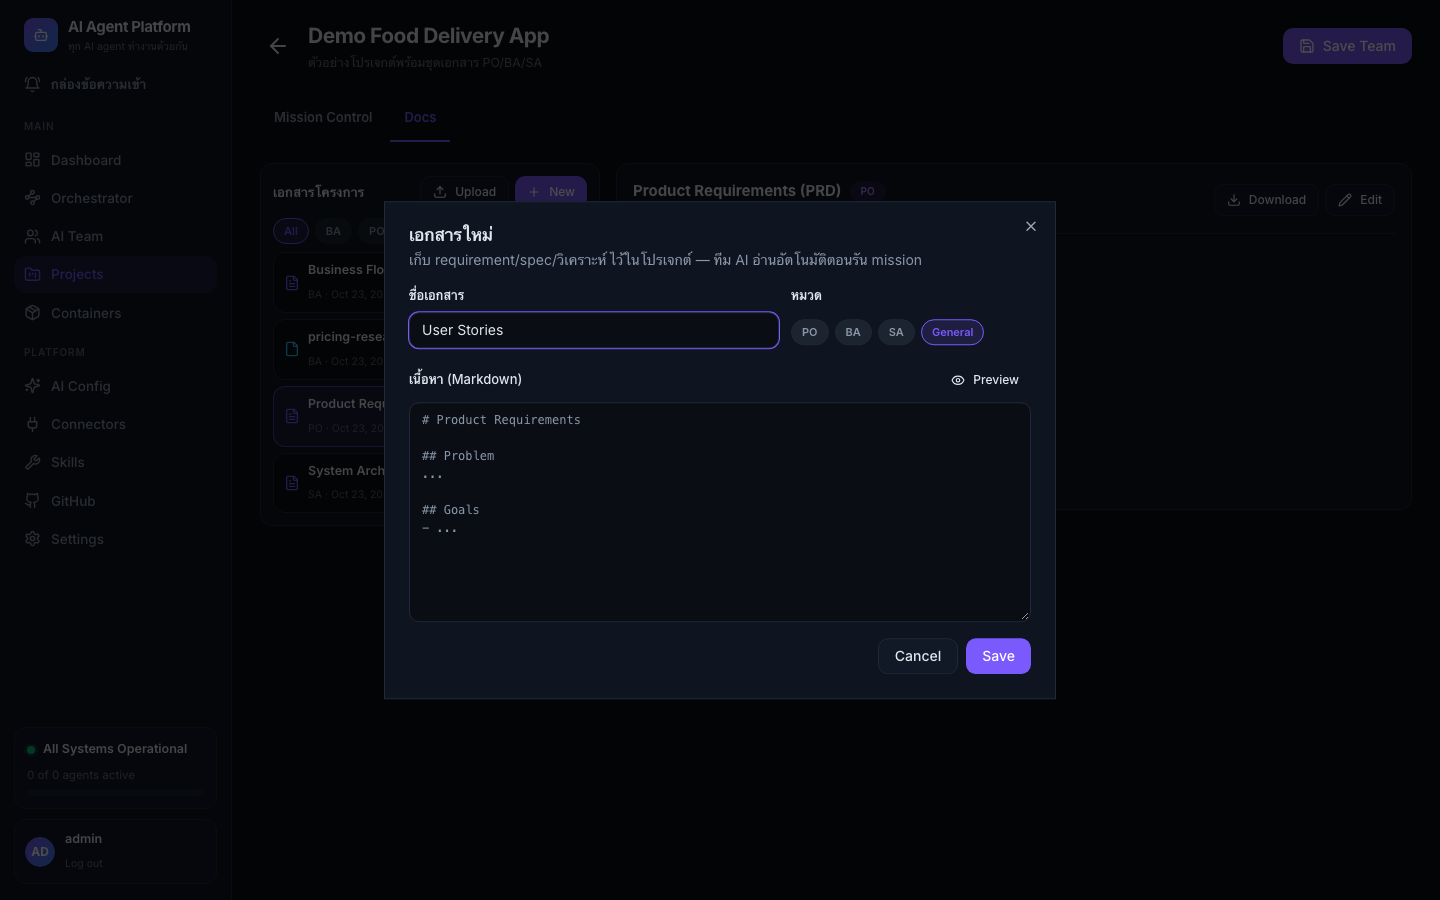
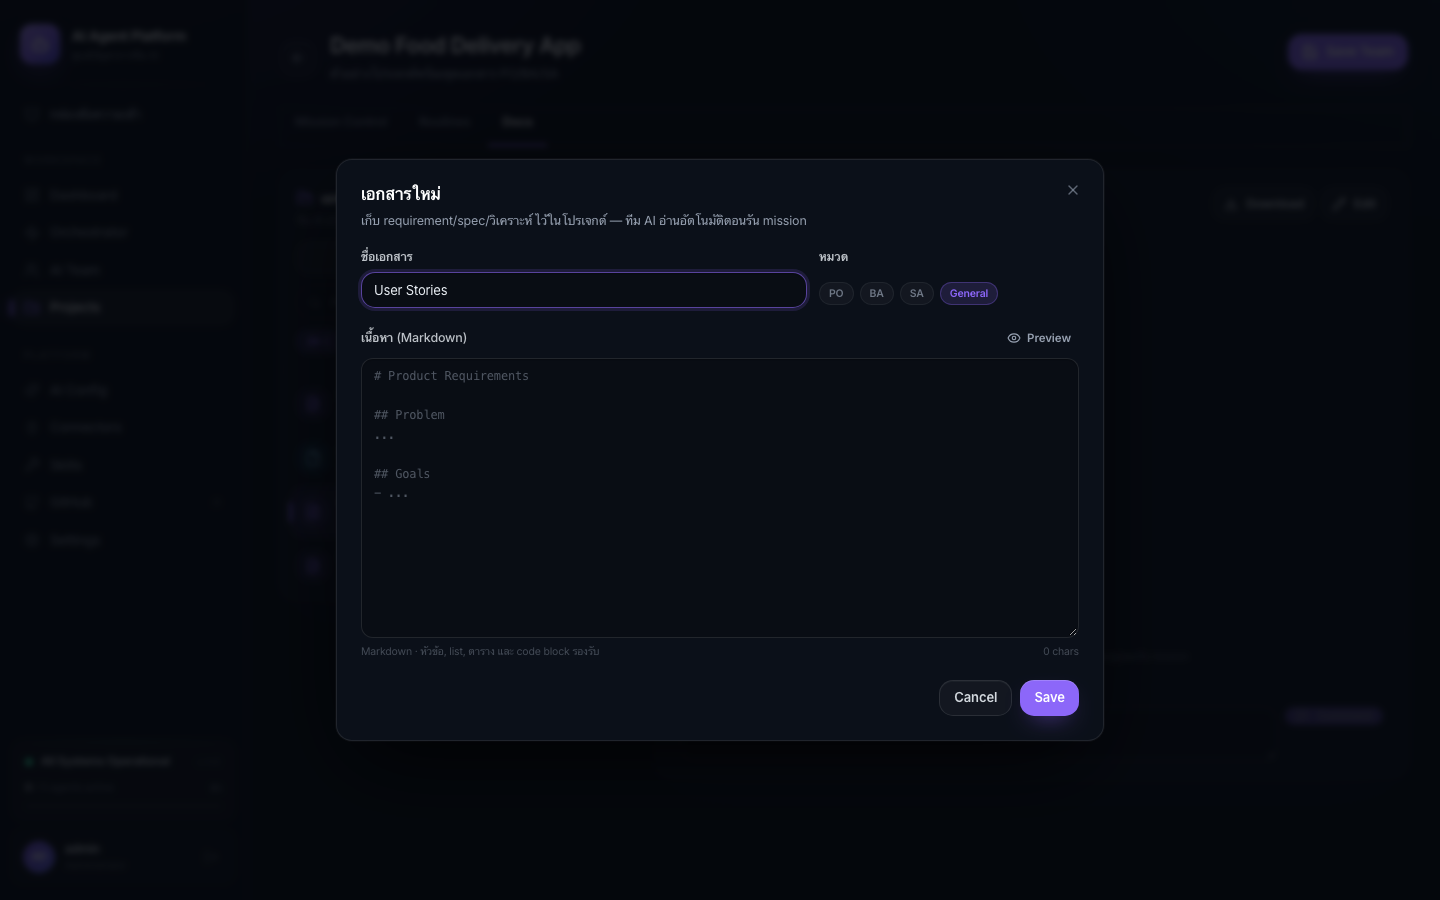
README: document budgets, routines, review gate, harnesses, and refresh screenshots
Adds the org-feature tour (goal + budget, routines, org chart, per-persona harness, docs with anchored comments, skill studio, token pricing), updates the mission/architecture diagrams for the budget guard, review gate, scheduler and watchdog, and documents AAP_BIND / AAP_WATCHDOG_STALL_SECS plus the private-by-default security posture. Captures every screenshot against the current dark UI, and renames the leftover "Agent Containers" dashboard copy to "AI Agents".

diff --git a/web/app/page.jsx b/web/app/page.jsx
@@ -172,7 +172,7 @@ export default function Dashboard() {
             testId="stat-containers"
             icon={Package}
             tone="bg-primary/[0.12] text-primary ring-primary/20"
-            label="Agent Containers"
+            label="AI Agents"
             value={managedCount}
             meta={<>
               <span className="font-semibold text-emerald-400">{running} running</span>
@@ -235,7 +235,7 @@ export default function Dashboard() {
           <Table className="min-w-[600px]">
             <TableHeader>
               <TableRow>
-                <TableHead className="w-1/4">Container</TableHead>
+                <TableHead className="w-1/4">Agent</TableHead>
                 <TableHead>Type</TableHead>
                 <TableHead>Model</TableHead>
                 <TableHead>Status</TableHead>
@@ -275,7 +275,7 @@ export default function Dashboard() {
                         <span className="flex h-9 w-9 items-center justify-center rounded-full border border-white/[0.07] bg-white/[0.03]">
                           <Search className="h-4 w-4 text-muted-foreground/50" />
                         </span>
-                        No containers match your filter.
+                        No agents match your filter.
                       </span>
                     )}
                   </TableCell>

diff --git a/web/app/containers/[id]/page.jsx b/web/app/containers/[id]/page.jsx
@@ -370,7 +370,7 @@ export default function ContainerDetail() {
             </div>
             {[
               ['Model', agentModel || '—', ''],
-              ['Container', status === 'running' ? 'Ready' : status, status === 'running' ? 'text-emerald-400' : ''],
+              ['Session', status === 'running' ? 'Ready' : status, status === 'running' ? 'text-emerald-400' : ''],
             ].map(([k, v, color]) => (
               <div key={k} className="flex items-center justify-between border-b border-dashed border-border py-1.5 text-[12.5px] last:border-0">
                 <span className="text-muted-foreground/70">{k}</span>

diff --git a/README.md b/README.md
@@ -6,7 +6,7 @@ Give the team one task in plain language. The Product Owner opens the brief, the
 
 [![Mission Control](docs/screenshots/mission-control.png)](docs/screenshots/mission-control.png)
 
-*A live mission on the React Flow canvas — each agent is a node, the timeline streams what they're doing, and meetings appear as floating cards wired to everyone involved.*
+*Mission Control — one project, one team, one working tree. The composer takes the task, budget and goal; every step below streams what each agent is really doing.*
 
 ---
 
@@ -14,23 +14,43 @@ Give the team one task in plain language. The Product Owner opens the brief, the
 
 | | |
 |---|---|
-| [![Dashboard](docs/screenshots/dashboard.png)](docs/screenshots/dashboard.png) | [![Agent desktop](docs/screenshots/container-detail.png)](docs/screenshots/container-detail.png) |
+| [![Dashboard](docs/screenshots/dashboard.png)](docs/screenshots/dashboard.png) | [![Agent terminal](docs/screenshots/container-detail.png)](docs/screenshots/container-detail.png) |
 | **Dashboard** — every agent at a glance: state, role, live status. | **Agent terminal** — the agent's live tmux session inside the page: watch every command stream by, or `tmux attach` yourself. |
 | [![AI Team](docs/screenshots/team.png)](docs/screenshots/team.png) | [![Orchestrator board](docs/screenshots/board.png)](docs/screenshots/board.png) |
-| **AI Team** — 9 personas with role, model, skills and their own session. Edit personas in-place. | **Orchestrator board** — Kanban + live activity feed of what every agent is doing right now. |
+| **AI Team** — 9 personas with role, model, harness and their own session. Edit personas in place. | **Orchestrator board** — every project's latest run, who is working, and the door into Mission Control. |
+
+## 🧭 Run a team like an org
+
+| | |
+|---|---|
+| [![Goal and budget](docs/screenshots/project-goal-budget.png)](docs/screenshots/project-goal-budget.png) | [![Routines](docs/screenshots/project-routines.png)](docs/screenshots/project-routines.png) |
+| **Goal + budget per mission** — a product goal that survives into every prompt, plus a USD budget and alert threshold per run. | **Scheduled routines** — 5-field cron, local time, `loop` runs, run-now and pause. A missed window is never replayed after a restart. |
+| [![Org chart](docs/screenshots/team-org.png)](docs/screenshots/team-org.png) | [![Persona harness](docs/screenshots/persona-harness.png)](docs/screenshots/persona-harness.png) |
+| **Org chart** — assign each persona a manager; the chain of command is injected into prompts and drawn here. | **Per-persona model & harness** — override the model per provider, or let a persona think through Claude Code / Codex CLI / a custom command. |
+| [![Doc comments](docs/screenshots/project-doc-comments.png)](docs/screenshots/project-doc-comments.png) | [![Project docs](docs/screenshots/project-docs.png)](docs/screenshots/project-docs.png) |
+| **Anchored review comments** — quote a line, leave a note, resolve or reopen it. | **Docs workspace** — markdown editor, file uploads and preview per project, shared with the team. |
+| [![Skill test bench](docs/screenshots/skill-test-bench.png)](docs/screenshots/skill-test-bench.png) | [![Token pricing](docs/screenshots/ai-config-pricing.png)](docs/screenshots/ai-config-pricing.png) |
+| **Skill studio** — saved test inputs, real provider runs, and 20-run history per skill, plus version restore. | **Token pricing** — per-model USD per 1M tokens feeds the run ledger; an unpriced model fails closed when a budget is set. |
 
 ## ✨ Highlights
 
 - 🧑🚀 **9 role-playing agents, one real workflow** — PO → BA → SA → UX/UI → Dev → QA, each working in their *own* tmux session on your machine, each writing deliverables to a shared git working tree
 - 🖥 **Live terminals** — every agent is a real shell in a tmux session (`agent-<role>`); you watch them work in the web terminal (xterm.js ⇄ WebSocket ⇄ PTY) or `tmux attach` directly — several viewers at once, nothing fights
-- 🧠 **Team meetings & human-in-the-loop** — a stuck agent opens an `ASK` meeting and *other agents answer*; if it truly needs you, the run pauses (`waiting_human`) and your inbox pings — answer in the mission chat and the team continues
+- 💸 **Budgets that actually bite** — every step records tokens and cost against the model's price; crossing the limit pauses the run as `waiting_human` and **only an explicit budget raise resumes it** — a chat reply cannot talk its way past the guardrail. Unpriced models fail closed
+- 🔍 **Review gate before push** — the PR stage stages the exact diff first, then waits for you: approve to push, or reject once and the Dev revises. The reviewed diff is the pushed diff, and retries re-enter the same gate
+- ⏰ **Routines** — 5-field cron in local time with DST-safe matching, busy-project skip, run-now and loop mode; schedules survive restarts without replaying missed windows
+- 🧠 **Team meetings & human-in-the-loop** — a stuck agent opens an `ASK` meeting and *other agents answer*; if it truly needs you, the run pauses and your inbox pings — answer in the mission chat and the team continues
 - 🐙 **Real pull requests** — the Dev creates a branch, pushes and opens a PR with `gh` using YOUR GitHub login. No PR theater: if prerequisites are missing the step is *honestly skipped with the real reason*
 - 🎬 **Acceptance demo** — QA and Dev present their evidence in a **demo session** while the PO checks acceptance criteria one by one → `VERDICT: PASS|FAIL`
 - 🔁 **Loop mode** — after each round the PO evaluates the goal, writes the next task itself and re-runs the team (up to 8 rounds); a FAIL verdict forces a fix task
+- 🏢 **Org-lite** — each persona reports to a manager; goal + ancestry travel into prompts, and the AI Team page draws the org chart
+- 🧰 **Bring your own harness** — native provider loop, Claude Code CLI, Codex CLI or a custom command template per persona. External harnesses run in the repo and are capped at 30 minutes; hitting the cap kills the process
+- 📚 **Docs & skill studio** — per-project markdown docs/pdfs with anchored comments; skills have a real test bench (saved inputs, provider runs, history) and version restore
 - 🔌 **Connectors** — GitHub (browser device-flow or PAT) and Figma (PAT) — **one machine, one identity**: log in once and the whole team pushes with your account
 - 🛡 **Honest tools** — before every step the orchestrator probes what's really installed on your machine and puts a *tools manifest* in the prompt: what exists (with versions) and what's forbidden to guess. Kills tool hallucination
-- 🌐 **Any AI provider** — Z.ai GLM, Anthropic, OpenAI, OpenRouter, Groq, DeepSeek, Ollama (local) or a custom endpoint; switchable per persona from the AI Config page, keys stored server-side
-- 🔐 **Login gate** — one `ADMIN_PASSWORD` unlocks everything (API, terminals)
+- 🌐 **Any AI provider** — Z.ai GLM, Anthropic, OpenAI, Gemini, OpenRouter, Groq, DeepSeek, Ollama (local) or a custom endpoint; switchable per persona, keys stored server-side
+- 🩺 **Watchdog** — a run that stops producing heartbeats for 45 minutes is flagged in the UI (never silently killed), and the flag clears itself when work resumes
+- 🔐 **Private by default** — one `ADMIN_PASSWORD` locks the API, terminals and mutations; without it the server binds loopback only. Stores are written atomically as `0600`
 - 🪶 **Zero Docker** — agents are shell sessions, not containers: no images to build, no VM tax, idle agents cost nothing; what's installed on your Mac is what the team can use
 
 ## 🎬 How a mission runs
@@ -47,7 +67,10 @@ flowchart TD
     UI --> DEV
     DEV --> QA["QA · Tara<br/>test strategy & E2E evidence"]
 
-    QA --> PR["🐙 Real Pull Request<br/>branch → push → gh pr create"]
+    QA --> REVIEW["🔍 Pre-push review gate<br/>you approve the exact staged diff"]
+    REVIEW -->|"approve"| PR["🐙 Real Pull Request<br/>branch → push → gh pr create"]
+    REVIEW -.->|"reject once"| DEV
+    REVIEW -.->|"reject again"| SKIP["🚫 PR skipped<br/>with the real reason"]
     PR --> DEMO["🎬 Demo session<br/>QA evidence → Dev PR → PO checklist"]
     DEMO -->|"VERDICT: PASS ✅"| DONE["🏁 Mission complete"]
     DEMO -->|"VERDICT: FAIL ❌"| LOOP["🔁 Loop mode — PO writes the fix task"]
@@ -56,6 +79,9 @@ flowchart TD
     DEV -. "stuck? ## ASK" .-> MEET["💬 Team Meeting<br/>agents answer each other · deliverable → rev 2"]
     MEET -. "really needs a human" .-> HUMAN["⏸ waiting_human<br/>you reply in the mission chat"]
     HUMAN -.-> DEV
+
+    DEV -. "budget crossed" .-> BUDGET["💸 Budget guard<br/>step cost > limit"]
+    BUDGET -.-> HUMAN
 ```
 
 Everything streams live into Mission Control: agent nodes light up blue (working) / amber (meeting) / green (delivered), the timeline shows each step with its real output, and every run is persisted (`data/runs.json`) so history survives restarts.
@@ -66,7 +92,7 @@ Everything streams live into Mission Control: agent nodes light up blue (working
 flowchart TB
     U["👤 You"] --> WEB["🖥 Web Dashboard · :3000<br/>Next.js 14 · shadcn/ui · React Flow · xterm.js"]
     WEB -->|"REST + WebSocket · x-session-token"| ORCH["⚙ Orchestrator · :8000<br/>Rust · Axum — one host binary (make run)"]
-    ORCH -->|"Anthropic-compatible API"| LLM["🤖 AI provider<br/>Z.ai GLM / Anthropic / OpenAI / OpenRouter / Groq / DeepSeek / Ollama"]
+    ORCH -->|"Anthropic-compatible API"| LLM["🤖 AI provider<br/>Z.ai GLM / Anthropic / OpenAI / Gemini / OpenRouter / Groq / DeepSeek / Ollama"]
 
     subgraph TEAM["🧩 Agent tmux sessions ×5–10 — one per persona, on YOUR machine"]
         direction LR
@@ -76,6 +102,8 @@ flowchart TB
         A4["…"]
     end
     ORCH -->|"tmux new-window + bash"| TEAM
+    ORCH -->|"cron tick · watchdog tick"| SCHED["⏰ Routines<br/>5-field cron, DST-safe"]
+    ORCH -.->|"no tmux? headless"| HEADLESS["headless fallback<br/>bash child + timeout"]
 
     subgraph INSIDE["Every agent = your real environment"]
         direction LR
@@ -85,13 +113,13 @@ flowchart TB
     end
     TEAM -.-> INSIDE
 
-    ORCH -.->|"runs & activity persisted"| DATA[("./data<br/>runs.json · paused.json · agents.json")]
+    ORCH -.->|"atomic 0600 writes"| DATA[("./data<br/>runs · projects · personas · config<br/>routines · docs · skills · agents")]
 ```
 
 | Component | Stack | What it does |
 |---|---|---|
-| **Web** ([web/](web/)) | Next.js 14 (App Router), Tailwind, shadcn/ui, React Flow, xterm.js | Dashboard, Mission Control, team & persona editor, Kanban board, settings, AI config, connectors |
-| **Orchestrator** ([orchestrator/](orchestrator/)) | Rust, Axum 0.8, tokio, portable-pty — a single host binary | Agent (tmux session) lifecycle, the Team Run engine (missions, meetings, loop mode, PR/demo stages), auth, connectors, tools manifest. Exec seam lives in [src/hostexec.rs](orchestrator/src/hostexec.rs) |
+| **Web** ([web/](web/)) | Next.js 14 (App Router), Tailwind, shadcn/ui, React Flow, xterm.js | Dashboard, Mission Control, team & persona editor, org chart, routines, docs workspace, skills studio, AI config, connectors |
+| **Orchestrator** ([orchestrator/](orchestrator/)) | Rust, Axum 0.8, tokio, portable-pty — a single host binary | Agent (tmux session) lifecycle, the Team Run engine (missions, meetings, budget guard, review gate, PR/demo stages), cron scheduler, watchdog, auth, connectors, tools manifest. Exec seam lives in [src/hostexec.rs](orchestrator/src/hostexec.rs) |
 
 **Design principles**
 
@@ -99,6 +127,7 @@ flowchart TB
 - *Repo-first* — the orchestrator clones the project repo (depth 1) into a **shared `./workspace` directory**, so the whole team works on one working tree
 - *Everything real* — deliverables, commits, PRs and test evidence are real artifacts; skipped stages say why
 - *tmux = the window* — every command an agent runs is visible in its session, live, whether you watch from the web UI or your own terminal
+- *Fail closed* — budgets stop spending instead of guessing, unpriced models block rather than record `$0`, and a hung harness is killed rather than left running in the background
 
 ## 👥 The AI team
 
@@ -114,7 +143,7 @@ flowchart TB
 | Backend Dev | **Earth** | Data, migrations, CI/CD, reliability |
 | QA Engineer | **Tara** | Test strategy, E2E (Playwright), quality gates |
 
-Personas are editable from the AI Team page — role prompt, model, skills.
+Personas are editable from the AI Team page — role prompt, model override, harness, manager, skills.
 
 ## 🚀 Quickstart
 
@@ -133,9 +162,9 @@ make run                   # orchestrator :8000 + web :3000, host processes
 |---|---|
 | Web dashboard | http://localhost:3000 |
 | API | http://localhost:8000 |
-| Any agent, live | `tmux attach -t agent-dev` |
+| Any agent, live | `tmux attach -t agent-dev-fe` |
 
-Start agents from the AI Team page (or the dashboard), open a project, type a task, press **สั่งงานทีม**, and watch Mission Control — or attach to any `agent-<role>` session and watch the same thing from your own terminal.
+Start agents from the AI Team page, open a project, set a goal/budget if you want guardrails, type a task, press **สั่งงานทีม**, and watch Mission Control — or attach to any `agent-<role>` session and watch the same thing from your own terminal.
 
 <details>
 <summary><b>Environment variables</b> (all optional at boot)</summary>
@@ -145,46 +174,55 @@ Start agents from the AI Team page (or the dashboard), open a project, type a ta
 | `AI_API_KEY` | *(empty)* | Provider API key — or set it in the **AI Config** page |
 | `AI_BASE_URL` | *(empty)* | Custom endpoint — empty = provider default |
 | `ADMIN_USER` | `admin` | Login username |
-| `ADMIN_PASSWORD` | *(empty)* | **Empty = auth off.** Set it to require login for the whole platform (API, terminals) |
-| `DATA_DIR` | `./data` | Where runs.json / paused.json / agents.json live |
+| `ADMIN_PASSWORD` | *(empty)* | **Empty = auth off (loopback only).** Set it to require login for the whole platform |
+| `AAP_BIND` | `127.0.0.1:8000` (auth off) / `0.0.0.0:8000` (auth on) | Explicit listen address; override to expose on the LAN |
+| `DATA_DIR` | `./data` | Runs, projects, personas, config, routines, docs, skills, agents |
 | `AAP_WORKSPACE` | `./workspace` | The team's shared working tree (cloned repos + deliverables) |
+| `AAP_WATCHDOG_STALL_SECS` | `2700` | Minutes-without-heartbeat threshold for the advisory run watchdog (min 60s) |
 
 </details>
 
 ## 🔐 Security notes
 
-- The login gate covers *all* agent endpoints — exec, AI commands, lifecycle, terminals
-- Provider keys and GitHub PATs live server-side in the orchestrator, never in the repo; the UI only shows masked keys; tokens injected into clone URLs are kept out of logs
-- Secrets passed to an agent command ride a 0600 script file — never a command line (`ps` shows nothing)
-- **One machine, one identity is a stated trade-off**: connecting GitHub logs the team in as you; disconnecting (or `gh auth logout`) logs the *machine* out. Agents work with your user's full permissions — this is a deliberate single-user design
+- **Private by default** — with `ADMIN_PASSWORD` unset the API listens on loopback only; every exec/terminal/agent endpoint requires a session when auth is on, and persona/task/config/skill mutations require auth too
+- **Secrets stay server-side** — provider keys and GitHub PATs live in the orchestrator; the UI only shows masked keys; tokens in clone URLs are redacted from logs; secrets for an agent command ride a `0600` script file, never a command line (`ps` shows nothing)
+- **Private at rest** — `data/` is `0700` and every store is written atomically as `0600` (tmp + rename); permissions are repaired on boot
+- **Injection-resistant** — model-written PR titles/bodies go into `0600` files passed as quoted arguments, not shell heredocs; commands are single-quoted argument-by-argument
+- **The review gate is a safety gate** — nothing is pushed until you approve the exact staged diff
+- **One machine, one identity is a stated trade-off** — connecting GitHub logs the team in as you; disconnecting (or `gh auth logout`) logs the *machine* out. Agents work with your user's full permissions — this is a deliberate single-user design
 
 ## 🧪 Tests
 
 ```bash
 make test    # runs the Playwright suite with .env credentials (needs the platform running)
+cd orchestrator && cargo test   # unit tests: cron parsing, next-run, pricing, harness, review, watchdog
 ```
 
-**~40 tests / 14 spec files** — auth, dashboard, agent detail, AI team, projects, board, connectors, inbox, platform, plus mission dispatch, pause/resume and PR-auth flows.
+**18 spec files / ~56 Playwright cases** — auth gate, dashboard, agent detail, AI team + org view, projects, routines, docs workspace, board, connectors, inbox, skills studio, platform, plus mission dispatch, pause/resume, step retry and PR-auth flows.
 
 ## 📁 Repository layout
 
 ```
-├── orchestrator/        # Rust backend (Axum) — API + mission engine + host exec
-│   └── src/main.rs      #   (exec seam: src/hostexec.rs — tmux + bash)
+├── orchestrator/        # Rust backend (Axum) — API + mission engine + scheduler + watchdog
+│   └── src/
+│       ├── main.rs      #   routes, run engine, budget/review gates, cron, persistence
+│       └── hostexec.rs  #   exec seam: tmux windows, headless fallback, timeouts
 ├── web/                 # Next.js dashboard
-│   ├── app/             # pages: dashboard, projects, containers, team, board, settings…
-│   ├── components/      # sidebar, agent detail, human inbox, terminal panel, ui kit
-│   └── e2e/             # Playwright specs
+│   ├── app/             # pages: dashboard, projects, containers, team, board, docs, skills, settings…
+│   ├── components/      # sidebar, agent detail, human inbox, terminal, persona editor, ui kit
+│   └── e2e/             # Playwright specs + screenshot capture scripts
 ├── Makefile             # make build / run / test / migrate-state
-├── docs/screenshots/    # the images in this README
+├── docs/
+│   ├── spec-agent-org.md    # org-features spec
+│   └── screenshots/         # the images in this README
 └── SPEC.md              # living spec & progress log (Thai)
 ```
 
 ## 🗺 Status & roadmap
 
-Working today: the full loop above — team missions, meetings, human-in-the-loop, loop mode, real PRs, demo acceptance, connectors, persisted history, E2E suite — all on plain host processes.
+Working today: the full loop above — team missions, meetings, human-in-the-loop, budgets with pause/resume, routines, pre-push review, loop mode, real PRs and demo acceptance, org ancestry, docs with comments, skill studio, BYO harnesses, watchdog — all on plain host processes with durable JSON stores.
 
-Not built yet: vision/screenshot capability for agents, GitHub OAuth permission-approval flow, DB-backed persistence for personas/config (currently in-memory + JSON files).
+Not built yet: vision QA (agents capturing and comparing screenshots), a GitHub OAuth permission-approval flow, multi-user roles/RBAC (single-user is by design), and database-backed persistence beyond the atomic JSON stores.
 
 Detailed progress log lives in [SPEC.md](SPEC.md).
 
